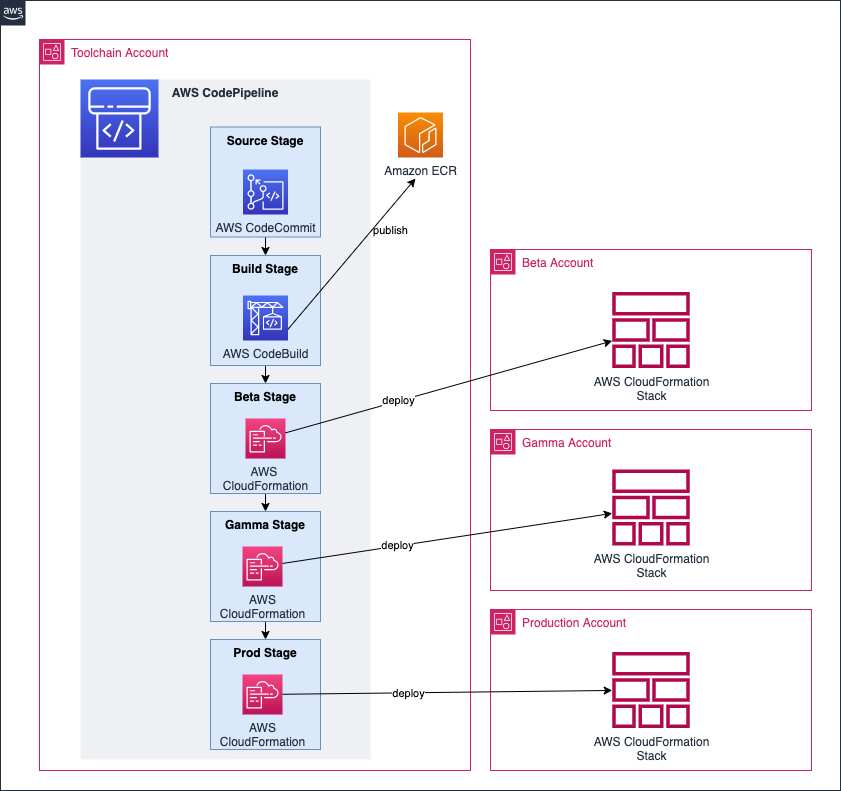
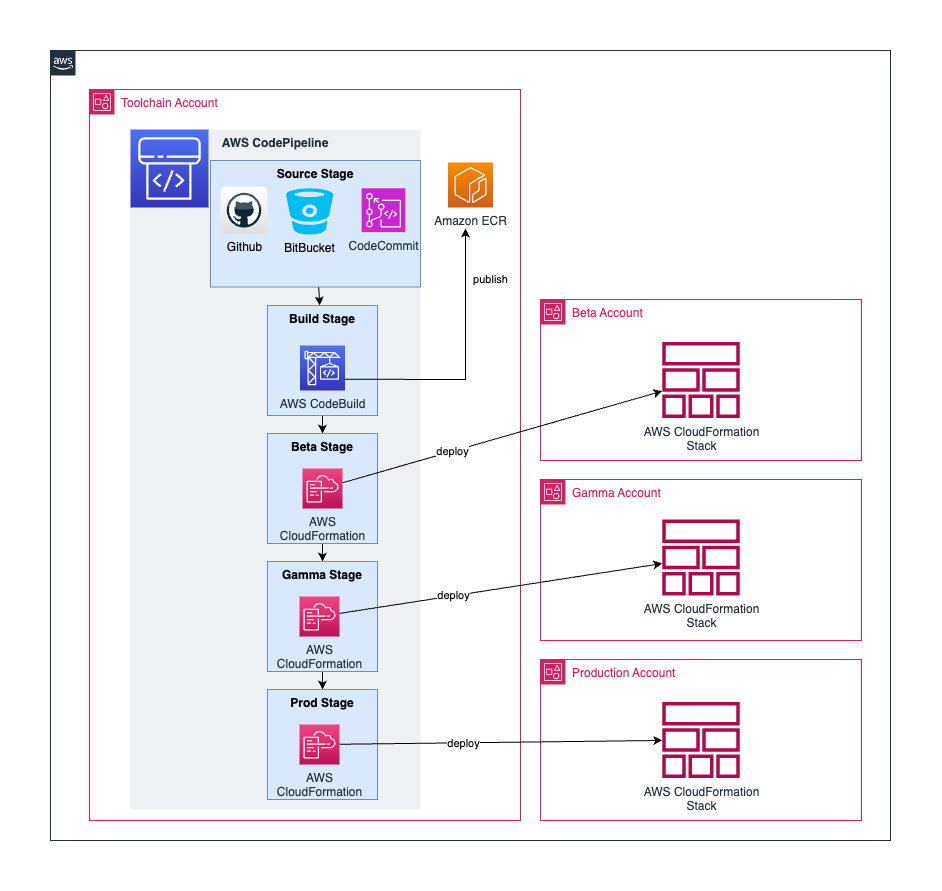
Updating the architecture with the updated version control system images (#52)
* updating the image to the new features added

* updating the readme for organized structure

* updating the readme for organized structure

diff --git a/examples/cdk-application-pipeline/README.md b/examples/cdk-application-pipeline/README.md
@@ -108,16 +108,18 @@ To deploy the pipeline to the toolchain AWS account run:
 npx ts-node infrastructure/src/setup.ts   
 ```
 Make a selection for your source:
-1. CodeCommit
-2. Github
-3. BitBucket
-4. Github Enterprise Server
+1. Github
+2. BitBucket
+3. Github Enterprise Server
+4. CodeCommit
 
 ![Version Control System Source](docs/SelectSource.png)
 
-If you choose CodeCommit as the source, no additional inputs required.
+**If you choose CodeCommit as the source, no additional inputs required.**
 
-If you choose Github/BitBucket/GithubEnterpiseServer as source, then provide following parameters as asked:
+_Note: AWS CodeCommit is no longer available to new customers. Existing customers of AWS CodeCommit can continue to use the service as normal. [Learn more](https://aws.amazon.com/blogs/devops/how-to-migrate-your-aws-codecommit-repository-to-another-git-provider/)_
+
+**If you choose Github/BitBucket/GithubEnterpiseServer as source, then provide following parameters as asked:**
 1. profile
 2. owner
 3. repositoryName
